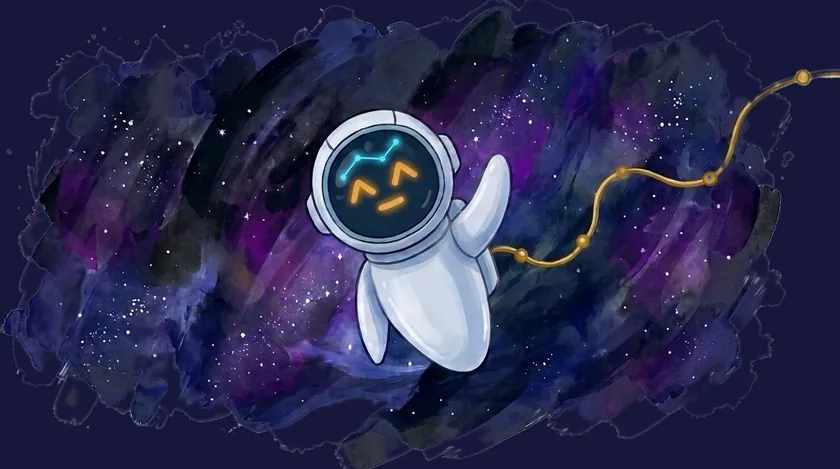
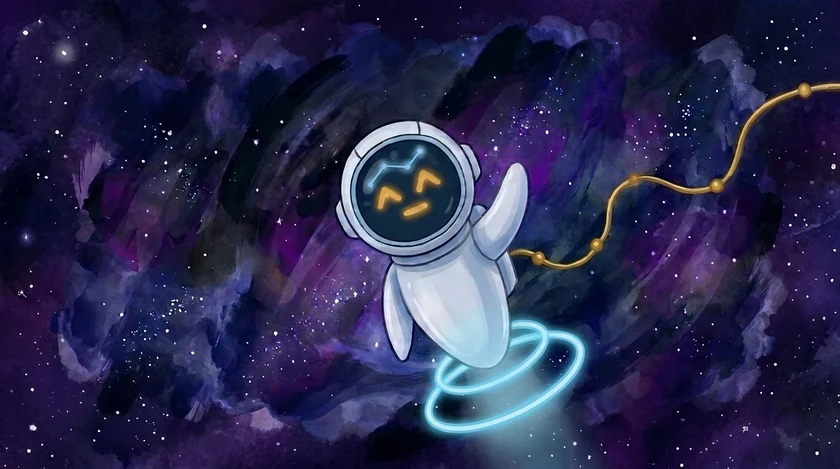
Landing: Nova's new painting, with its tractor beam (v9.0.2)
Patrick repainted the landing astronaut with glowing rings and a jet,
painted full-bleed so the dark cut is the painting as painted under the
existing elliptical mask; the light cut puts it inside the earlier oval's
brush rim. The dead ends (a beam breaking out of the oval; patching a
painting that stopped short of its edges) are recorded in history.md.

diff --git a/frontend/src/teacher/teacher.css b/frontend/src/teacher/teacher.css
@@ -151,14 +151,14 @@
      white paper inside a watercolour brush edge (lifted from the first, square
      version of the painting and remapped onto an ellipse), and `multiply`
      turns the paper into exactly the page colour.
-   Since v9.0.0 both hold Patrick's newer painting, the launcher's astronaut:
-   it was painted as a patch on paper, so its paper is laid over a ground of
-   its own deepest colour for the dark cut, where the pale washes along the
-   brush edge (a white rim on navy, Patrick) give way to that ground too,
-   stars and tether kept; and the light cut keeps the earlier oval whole,
-   its grey and lavender washes where the paint thinned over the paper
-   included (they are what makes it read as a hole through the page, Patrick,
-   over a crisp torn edge that was tried), the new painting inside them.
+   Since v9.0.2 both hold Patrick's painting of Nova with its tractor beam,
+   painted full-bleed on purpose: the dark cut is that painting as painted,
+   and the light cut keeps the earlier oval whole, its grey and lavender
+   washes where the paint thinned over the paper included (they are what
+   makes it read as a hole through the page, Patrick, over a crisp torn edge
+   that was tried), the new painting inside them. A painting that stops short
+   of its edges looks wrong on dark however it's patched (see
+   docs/history.md, v9.0.2) — repaint to the edges instead.
    A theme switch on the empty landing replays the entrance for the picture,
    greeting and bar together — see the theme effect in Teacher.tsx. */
 .landing-hero {

diff --git a/docs/history.md b/docs/history.md
@@ -5527,6 +5527,25 @@ into two relations with distinct meaning, colour, filter, and (later) slider:
 
 ### UI & rendering polish
 
+- [x] **The landing painting: Nova with a tractor beam** *(v9.0.2)* — Patrick
+      repainted the landing astronaut with glowing rings and a jet beneath
+      it. Both cuts are rebuilt the v8.6.0 way: **dark** is the painting as
+      painted, under the unchanged elliptical CSS mask, and **light** puts it
+      inside the earlier oval's brush rim and washes. **Two dead ends, recorded
+      so nobody repeats them.** (1) Letting the beam break out of the oval
+      (rings over the rim, jet running past the canvas into extra height,
+      dark's fade baked into alpha so a mask wouldn't swallow it) was built and
+      rejected in favour of the simple look. (2) The first version of the
+      painting was a patch on white paper, and no dark cut of it looked right:
+      a near-black ground left a dark moat, blurring the paint's edge outward
+      dragged paper in as a white rim, the pale edge washes read as a halo, and
+      even matching the old cut's ground (`rgb(22, 23, 59)`) with edge colours
+      extended into the corners still showed the patch. What fixed it was
+      repainting with the nebula running to the edges, so the dark cut needs
+      no processing at all. Same 840×469 WebPs; the source JPGs stay out of
+      the repo. *(Patrick's ask, 2026-10-29; browser-tested and approved the
+      same day.)*
+
 - [x] **Chat information icon aligned before the rounded bar end** *(v8.53.1)* —
       the shared composer notes row has 38px of right padding instead of
       12px, moving its ⓘ left by 26px. It now sits above the bar's straight
